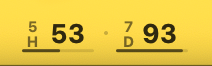
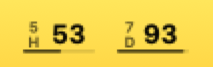
docs: refresh README badge previews

diff --git a/scripts/ExportReadmeBadgeMedia.swift b/scripts/ExportReadmeBadgeMedia.swift
@@ -6,9 +6,11 @@ import UniformTypeIdentifiers
 @MainActor
 @main
 private enum ExportReadmeBadgeMedia {
-    private static let canvasSize = NSSize(width: 430, height: 144)
-    private static let pixelScale = 3
+    private static let canvasSize = NSSize(width: 300, height: 100)
+    private static let menuBarSampleSize = NSSize(width: 213, height: 67)
+    private static let pixelScale = 1
     private static let framesPerSecond = 24.0
+    private static let repeatPause = 1.5
 
     static func main() throws {
         guard CommandLine.arguments.count == 2 else {
@@ -21,6 +23,7 @@ private enum ExportReadmeBadgeMedia {
 
         let now = Date()
         let usage = try makeUsage(fiveHour: 100, weekly: 100, now: now)
+        try writeMenuBarSamples(usage: makeUsage(fiveHour: 53, weekly: 93, now: now), now: now, to: outputDirectory)
         let transition = UsageBadgeTransition(
             fromFiveHour: 14,
             fromWeekly: 18,
@@ -31,16 +34,66 @@ private enum ExportReadmeBadgeMedia {
         )
 
         for style in BadgeStyle.allCases {
-            let frames = try resetFrames(style: style, usage: usage, transition: transition, now: now)
+            var frames = try resetFrames(style: style, usage: usage, transition: transition, now: now)
+            if let finalFrame = frames.last {
+                frames.append(GIFFrame(
+                    image: finalFrame.image,
+                    delay: max(0.1, repeatPause - finalFrame.delay)
+                ))
+            }
             let filename = style == .doubleRing ? "double-ring" : "large-readout"
             let destination = outputDirectory.appendingPathComponent("badge-reset-\(filename).gif")
-            try writeGIF(frames, to: destination, delay: 1 / framesPerSecond)
+            try writeGIF(frames, to: destination)
             print("Wrote \(destination.path)")
         }
 
         let reminderURL = outputDirectory.appendingPathComponent("reset-expiry-reminder.png")
         try writeReminderImage(usage: makeUsage(fiveHour: 62, weekly: 81, now: now), now: now, to: reminderURL)
         print("Wrote \(reminderURL.path)")
+    }
+
+    private static func writeMenuBarSamples(usage: UsageSummary, now: Date, to directory: URL) throws {
+        let appearance = NSAppearance(named: .aqua) ?? NSAppearance.currentDrawing()
+        for style in BadgeStyle.allCases {
+            let bitmap = try makeBitmap(size: menuBarSampleSize)
+            NSGraphicsContext.saveGraphicsState()
+            defer { NSGraphicsContext.restoreGraphicsState() }
+            guard let context = NSGraphicsContext(bitmapImageRep: bitmap) else {
+                throw ExportError.bitmapContextUnavailable
+            }
+            NSGraphicsContext.current = context
+            context.imageInterpolation = .high
+            context.shouldAntialias = true
+
+            appearance.performAsCurrentDrawingAppearance {
+                let bounds = NSRect(origin: .zero, size: menuBarSampleSize)
+                NSGradient(colors: [
+                    NSColor(calibratedRed: 1, green: 0.89, blue: 0.29, alpha: 1),
+                    NSColor(calibratedRed: 1, green: 0.82, blue: 0.22, alpha: 1),
+                ])?.draw(in: bounds, angle: 270)
+
+                let rendering = UsageBadgeRenderer.rendering(
+                    for: usage,
+                    style: style,
+                    appearance: appearance,
+                    now: now
+                )
+                rendering.image.draw(
+                    in: NSRect(x: 21, y: 9.5, width: 172, height: 48),
+                    from: .zero,
+                    operation: .sourceOver,
+                    fraction: 1
+                )
+            }
+
+            guard let data = bitmap.representation(using: .png, properties: [:]) else {
+                throw ExportError.pngEncodingFailed
+            }
+            let filename = style == .doubleRing ? "double-ring" : "large-readout"
+            let destination = directory.appendingPathComponent("menu-bar-badge-\(filename).png")
+            try data.write(to: destination, options: .atomic)
+            print("Wrote \(destination.path)")
+        }
     }
 
     private static func makeUsage(fiveHour: Int, weekly: Int, now: Date) throws -> UsageSummary {
@@ -69,41 +122,26 @@ private enum ExportReadmeBadgeMedia {
         usage: UsageSummary,
         transition: UsageBadgeTransition,
         now: Date
-    ) throws -> [CGImage] {
+    ) throws -> [GIFFrame] {
         let appearance = NSAppearance(named: .aqua) ?? NSAppearance.currentDrawing()
         let transitionFrameCount = max(1, Int((transition.duration * framesPerSecond).rounded()))
-        var frames: [CGImage] = []
+        var frames: [GIFFrame] = []
 
         for _ in 0..<6 {
-            frames.append(try badgeFrame(
-                style: style,
-                usage: usage,
-                appearance: appearance,
-                now: now,
-                animationFrame: transition.frame(at: 0)
+            frames.append(GIFFrame(
+                image: try badgeFrame(style: style, usage: usage, appearance: appearance, now: now, animationFrame: transition.frame(at: 0)),
+                delay: 1 / framesPerSecond
             ))
         }
 
         for frameIndex in 1...transitionFrameCount {
             let elapsed = transition.duration * Double(frameIndex) / Double(transitionFrameCount)
-            frames.append(try badgeFrame(
-                style: style,
-                usage: usage,
-                appearance: appearance,
-                now: now,
-                animationFrame: transition.frame(at: elapsed)
+            frames.append(GIFFrame(
+                image: try badgeFrame(style: style, usage: usage, appearance: appearance, now: now, animationFrame: transition.frame(at: elapsed)),
+                delay: 1 / framesPerSecond
             ))
         }
 
-        for _ in 0..<12 {
-            frames.append(try badgeFrame(
-                style: style,
-                usage: usage,
-                appearance: appearance,
-                now: now,
-                animationFrame: transition.frame(at: transition.duration)
-            ))
-        }
         return frames
     }
 
@@ -225,7 +263,7 @@ private enum ExportReadmeBadgeMedia {
     }
 
     private static var enlargedBadgeRect: NSRect {
-        NSRect(x: 86, y: 40, width: 258, height: 72)
+        NSRect(x: 64, y: 18, width: 172, height: 48)
     }
 
     private static func drawCardBackground() {
@@ -242,10 +280,10 @@ private enum ExportReadmeBadgeMedia {
         NSAttributedString(
             string: text,
             attributes: [
-                .font: NSFont.systemFont(ofSize: 14, weight: .semibold),
+                .font: NSFont.systemFont(ofSize: 12, weight: .semibold),
                 .foregroundColor: NSColor.labelColor,
             ]
-        ).draw(at: NSPoint(x: 24, y: 116))
+        ).draw(at: NSPoint(x: 18, y: 78))
     }
 
     private static func drawExpiryDot(in badgeRect: NSRect) {
@@ -261,7 +299,7 @@ private enum ExportReadmeBadgeMedia {
         NSBezierPath(ovalIn: dotRect).fill()
     }
 
-    private static func writeGIF(_ frames: [CGImage], to url: URL, delay: Double) throws {
+    private static func writeGIF(_ frames: [GIFFrame], to url: URL) throws {
         guard let destination = CGImageDestinationCreateWithURL(
             url as CFURL,
             UTType.gif.identifier as CFString,
@@ -272,20 +310,51 @@ private enum ExportReadmeBadgeMedia {
         }
 
         CGImageDestinationSetProperties(destination, [
-            kCGImagePropertyGIFLoopCount as String: 0,
+            kCGImagePropertyGIFDictionary as String: [
+                kCGImagePropertyGIFLoopCount as String: 0,
+            ],
         ] as CFDictionary)
 
-        let frameProperties: CFDictionary = [
-            kCGImagePropertyGIFDictionary as String: [
-                kCGImagePropertyGIFDelayTime as String: delay,
-                kCGImagePropertyGIFUnclampedDelayTime as String: delay,
-            ],
-        ] as CFDictionary
-
         for frame in frames {
-            CGImageDestinationAddImage(destination, frame, frameProperties)
+            let frameProperties: CFDictionary = [
+                kCGImagePropertyGIFDictionary as String: [
+                    kCGImagePropertyGIFDelayTime as String: frame.delay,
+                    kCGImagePropertyGIFUnclampedDelayTime as String: frame.delay,
+                ],
+            ] as CFDictionary
+            CGImageDestinationAddImage(destination, frame.image, frameProperties)
         }
         guard CGImageDestinationFinalize(destination) else { throw ExportError.gifEncodingFailed }
+        try verifyGIF(at: url)
+    }
+
+    private static func verifyGIF(at url: URL) throws {
+        guard let source = CGImageSourceCreateWithURL(url as CFURL, nil),
+              let properties = CGImageSourceCopyProperties(source, nil) as? [CFString: Any],
+              let gifProperties = properties[kCGImagePropertyGIFDictionary] as? [CFString: Any],
+              (gifProperties[kCGImagePropertyGIFLoopCount] as? NSNumber)?.intValue == 0 else {
+            throw ExportError.gifLoopVerificationFailed
+        }
+
+        var delays: [Double] = []
+        for index in 0..<CGImageSourceGetCount(source) {
+            let frameProperties = CGImageSourceCopyPropertiesAtIndex(source, index, nil) as? [CFString: Any]
+            let frameGIFProperties = frameProperties?[kCGImagePropertyGIFDictionary] as? [CFString: Any]
+            let delay = (frameGIFProperties?[kCGImagePropertyGIFUnclampedDelayTime] as? NSNumber)?.doubleValue
+                ?? (frameGIFProperties?[kCGImagePropertyGIFDelayTime] as? NSNumber)?.doubleValue
+                ?? 0
+            delays.append(delay)
+        }
+        guard delays.count >= 2,
+              delays.filter({ $0 > 1 }).count == 1,
+              abs(delays[delays.count - 2] + delays[delays.count - 1] - repeatPause) < 0.01 else {
+            throw ExportError.gifPauseVerificationFailed
+        }
+    }
+
+    private struct GIFFrame {
+        let image: CGImage
+        let delay: Double
     }
 
     private enum ExportError: Error {
@@ -294,5 +363,7 @@ private enum ExportReadmeBadgeMedia {
         case pngEncodingFailed
         case gifDestinationUnavailable
         case gifEncodingFailed
+        case gifLoopVerificationFailed
+        case gifPauseVerificationFailed
     }
 }

diff --git a/README.md b/README.md
@@ -18,7 +18,7 @@ The 5-hour and 7-day readings animate smoothly when refreshed. A confirmed reset
 |:---:|:---:|
 | ![Double Ring badge showing its reset recovery animation](docs/assets/badge-reset-double-ring.gif) | ![Large Readout badge showing its reset recovery animation](docs/assets/badge-reset-large-readout.gif) |
 
-These GIFs use synthetic local readings rendered by the app's AppKit badge renderer; they do not access an account or use a reset. Regenerate them with `npm run export:readme-media`.
+Reset animations loop continuously with a 1.5-second pause between cycles.
 
 An amber dot marks an earned reset that expires within 72 hours. It stays on the badge as a quiet reminder; the menu offers a direct path to use the earliest known-expiring reset.
 

diff --git a/CONTRIBUTING.md b/CONTRIBUTING.md
@@ -21,3 +21,9 @@ BUILD_ARCH=arm64 npm run build:macos
 BUILD_ARCH=x86_64 npm run build:macos
 dist/'Codex Usage Status.app'/Contents/MacOS/CodexUsageStatus --once
 ```
+
+When changing the badge renderer, refresh the README examples with:
+
+```sh
+npm run export:readme-media
+```
